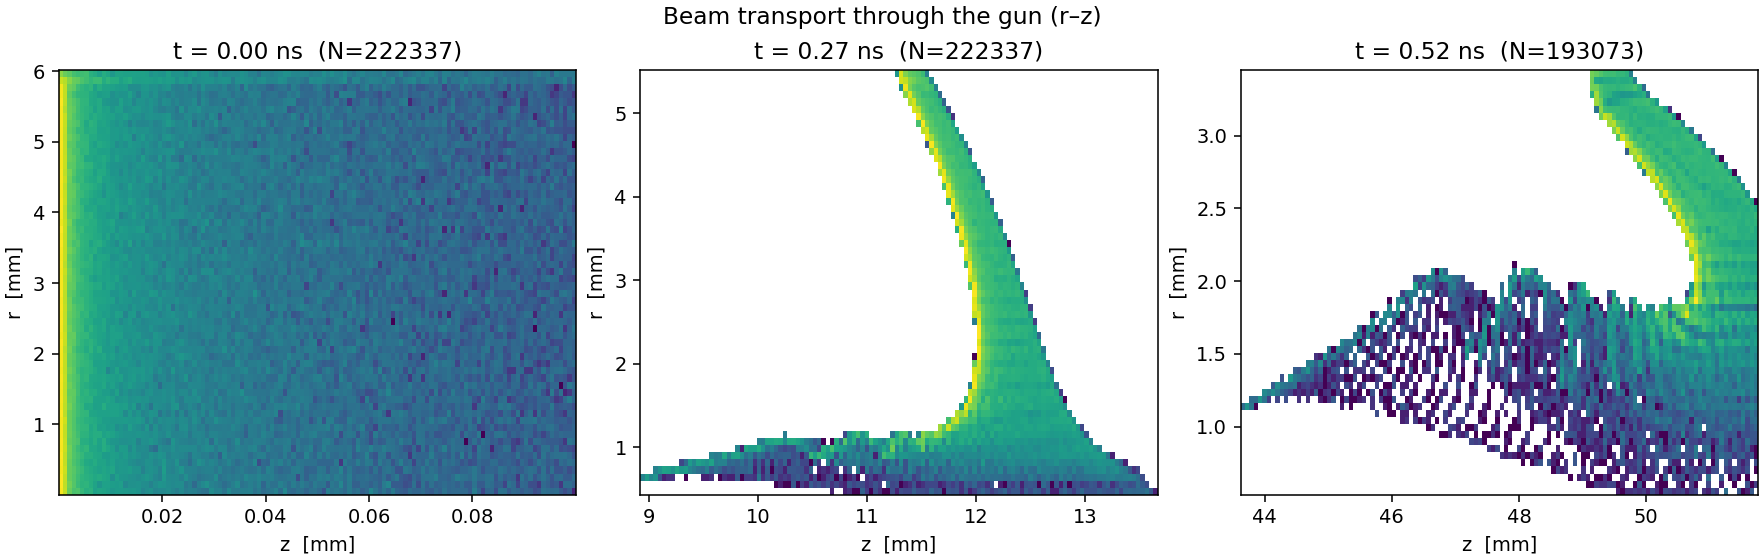
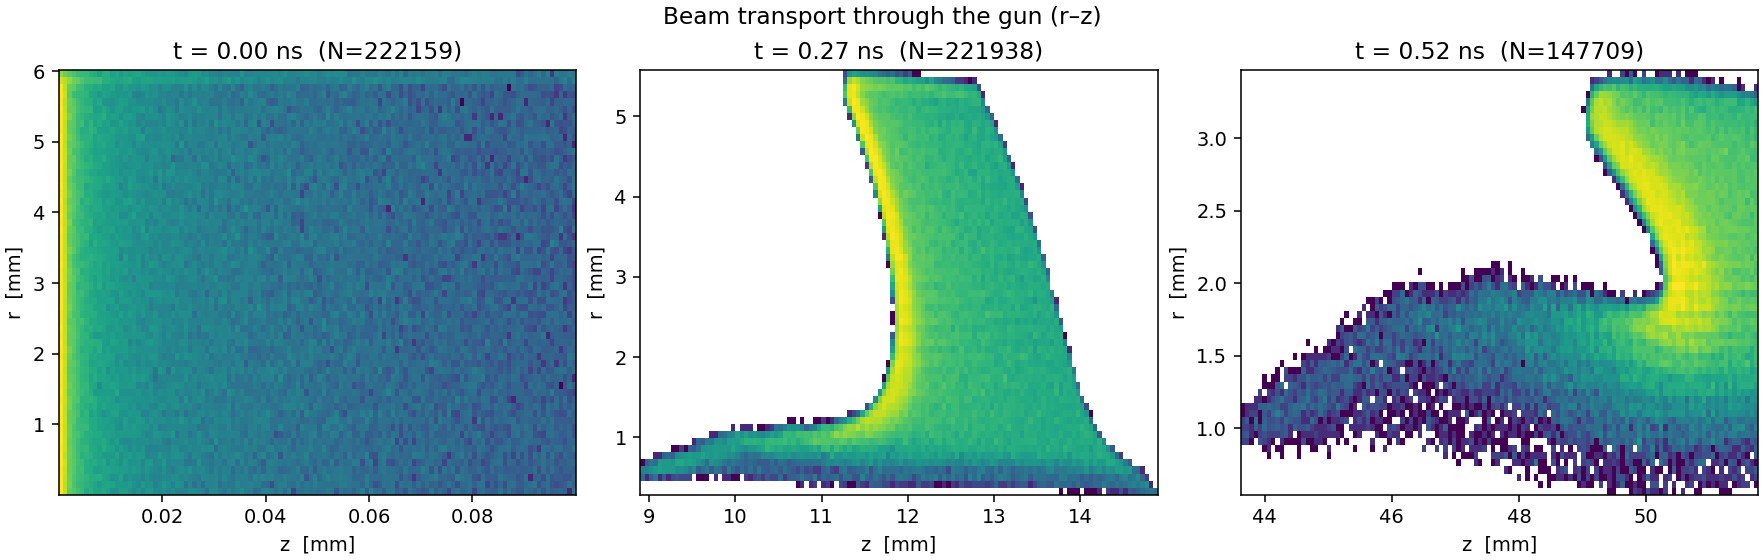
feat(gun): add beam-envelope and beam self-field figures
beam_envelope.png — RMS radial size σ_r and normalized transverse emittance
εn,x vs ⟨z⟩: quantifies the near-cathode focusing that beam_rz.png shows only
qualitatively. With the momentum-import fix the launch emittance is the inherited
cathode value (~1.11 mm·mrad), growing in-gun to ~11 mm·mrad.
space_charge.png — r–z maps of the beam's own charge density ρ and the
space-charge potential well φ (≈ −250 V) at a near-launch snapshot — the dumped
self-field that nothing else plotted. Transport figures regenerated off the
corrected gun run.

diff --git a/warpx_gun/plot_gun.py b/warpx_gun/plot_gun.py
@@ -1,8 +1,9 @@
 """
 Figures for the WarpX RZ CESR-gun simulation (gun_sim.py).
 
-Reads the applied gun field (warpx_gun/gun_field/gun_E.h5) and the openPMD beam
-output under warpx_gun/diags/, and writes four figures to warpx_gun/results/:
+Reads the applied gun field (warpx_gun/gun_field/gun_E.h5), the dumped beam
+self-field (warpx_gun/diags/fields/: phi, rho), and the openPMD beam output
+(warpx_gun/diags/particles/), and writes six figures to warpx_gun/results/:
 
   1. gun_field.png     — on-axis Ez(z) and implied potential of the scaled
                          CESR_gun.gdf map: the accelerating field the beam sees.
@@ -11,6 +12,10 @@ output under warpx_gun/diags/, and writes four figures to warpx_gun/results/:
   3. energy_gain.png   — mean/max kinetic energy of the beam vs. ⟨z⟩, climbing
                          toward the ~150 keV gun voltage.
   4. exit_phase_space.png — longitudinal (z–KE) and the final energy spectrum.
+  5. beam_envelope.png — RMS radial size σ_r and normalized transverse emittance
+                         εn,x vs. ⟨z⟩: the near-cathode focusing, quantified.
+  6. space_charge.png  — r–z maps of the beam self charge density ρ and its
+                         space-charge potential well φ at a near-launch snapshot.
 
 Run with:
     conda run -n CBB python warpx_gun/plot_gun.py
@@ -65,20 +70,33 @@ ts = OpenPMDTimeSeries("warpx_gun/diags/particles")
 iters = ts.iterations
 
 t_ns, zmean, ke_mean, ke_max, n_live = [], [], [], [], []
+sig_r, emit_nx = [], []           # for beam_envelope.png (filled in the same loop)
 for i, it in enumerate(iters):
-    z, ux, uy, uz = ts.get_particle(
-        ["z", "ux", "uy", "uz"], species="electrons", iteration=it)
+    z, x, ux, uy, uz = ts.get_particle(
+        ["z", "x", "ux", "uy", "uz"], species="electrons", iteration=it)
     n_live.append(len(z))
     t_ns.append(ts.t[i] * 1e9)
     if len(z) == 0:
         zmean.append(np.nan); ke_mean.append(np.nan); ke_max.append(np.nan)
+        sig_r.append(np.nan); emit_nx.append(np.nan)
         continue
     ke = (gamma_of(ux, uy, uz) - 1.0) * MC2
     zmean.append(z.mean() * 1e3)
     ke_mean.append(ke.mean()); ke_max.append(ke.max())
+    # ── Envelope diagnostics (one transverse plane; RZ ⇒ x and y are equivalent) ──
+    # RMS radial size: in RZ the cloud is azimuthally symmetric, so the radial RMS
+    # equals σ_x = sqrt(⟨x²⟩) (the per-plane RMS), reported in mm.
+    sig_r.append(np.sqrt(np.mean(x**2)) * 1e3)
+    # Normalized transverse emittance εn,x = sqrt(⟨x²⟩⟨ux²⟩ − ⟨x·ux⟩²): a phase-space
+    # area that is invariant under linear (and acceleration) forces; growth ⇒ nonlinear
+    # space-charge / field aberrations. ux is the normalized momentum γβx, so x[m]·ux
+    # gives [m·rad]; ×1e6 → mm·mrad.
+    e2 = np.mean(x**2) * np.mean(ux**2) - np.mean(x * ux)**2
+    emit_nx.append(np.sqrt(max(e2, 0.0)) * 1e6)
 
 t_ns = np.array(t_ns); zmean = np.array(zmean)
 ke_mean = np.array(ke_mean); ke_max = np.array(ke_max)
+sig_r = np.array(sig_r); emit_nx = np.array(emit_nx)
 print(f"beam: {n_live[0]} launched, {n_live[-1]} at last dump; "
       f"peak ⟨KE⟩ {np.nanmax(ke_mean):.1f} keV, max KE {np.nanmax(ke_max):.1f} keV")
 
@@ -127,3 +145,102 @@ a2.set_xlabel("KE  [keV]"); a2.set_ylabel("count")
 a2.set_title("Energy spectrum at last dump"); a2.legend()
 fig.savefig(f"{RESULTS}/exit_phase_space.png", dpi=140)
 print(f"wrote {RESULTS}/exit_phase_space.png")
+
+# ══════════════════════════════════════════════════════════════════════════════
+# Fig 5: beam_envelope.png — RMS radial size σ_r and emittance εn,x vs ⟨z⟩
+# ──────────────────────────────────────────────────────────────────────────────
+# beam_rz.png shows the near-cathode pinch only qualitatively (three snapshots);
+# this quantifies it. The transverse envelope σ_r(z) contracts as the diverging
+# cathode emission is focused by the radial gun field, while the normalized
+# emittance εn,x tracks whether that focusing is clean (flat) or aberrated
+# (growing). Both are computed in the snapshot loop above; here we just plot them
+# against the mean longitudinal position ⟨z⟩, so the x-axis reads as "down the gun".
+# ══════════════════════════════════════════════════════════════════════════════
+ok = np.isfinite(zmean) & np.isfinite(sig_r)
+fig, ax = plt.subplots(figsize=(7.6, 4.6), constrained_layout=True)
+l1, = ax.plot(zmean[ok], sig_r[ok], "o-", color="C0", ms=3,
+              label=r"RMS size  $\sigma_r=\sqrt{\langle x^2\rangle}$")
+ax.set_xlabel("mean beam position  ⟨z⟩  [mm]")
+ax.set_ylabel(r"RMS radial size  $\sigma_r$  [mm]", color="C0")
+ax.tick_params(axis="y", labelcolor="C0")
+ax.set_title("Transverse envelope and emittance along the gun")
+# Twin axis: normalized transverse emittance (the phase-space area).
+ax2 = ax.twinx()
+l2, = ax2.plot(zmean[ok], emit_nx[ok], "s--", color="C3", ms=3,
+               label=r"norm. emittance  $\varepsilon_{n,x}$")
+ax2.set_ylabel(r"$\varepsilon_{n,x}$  [mm·mrad]", color="C3")
+ax2.tick_params(axis="y", labelcolor="C3")
+ax.legend(handles=[l1, l2], loc="best")
+fig.savefig(f"{RESULTS}/beam_envelope.png", dpi=140)
+print(f"wrote {RESULTS}/beam_envelope.png")
+
+# ══════════════════════════════════════════════════════════════════════════════
+# Fig 6: space_charge.png — the beam SELF-FIELD (dumped ρ and φ) at near launch
+# ──────────────────────────────────────────────────────────────────────────────
+# Nothing else in this file plots warpx_gun/diags/fields. That is the beam's OWN
+# space charge — distinct from the applied gun field in gun_field.png. The README
+# renormalizes the bunch to 0.1 nC precisely because this self-field would
+# otherwise dwarf the gun field; here we make it visible. We pick an early
+# iteration where the dense bunch is still near the cathode (largest self-field),
+# and show two r–z half-plane (r ≥ 0) maps:
+#   • ρ(r,z): the bunch self charge density (electrons ⇒ ρ < 0), and
+#   • φ(r,z): the space-charge potential well it digs in the on-axis potential.
+# We read the openPMD field dump with the raw openpmd_api mode-0 reader (same
+# pattern as the applied-field reader at the top of this file): for RZ thetaMode
+# each scalar loads as (1, nz, nr); [0] drops the mode axis to a half-plane slice.
+# ══════════════════════════════════════════════════════════════════════════════
+# Choose a near-launch field snapshot whose dense bunch has just cleared the
+# cathode wall: the self-field is largest near launch, but the very first dumps
+# pin the cloud against z = 0 where it is a single-cell sliver. We target the
+# field dump whose bunch ⟨z⟩ is closest to ~0.4 mm — a few cells off the wall, so
+# the bunch resolves as a blob while still sitting at the cathode end of the gun.
+fs = io.Series("warpx_gun/diags/fields/openpmd_%06T.h5", io.Access.read_only)
+field_iters = [int(k) for k in fs.iterations]
+particle_iters = list(iters)
+# ⟨z⟩ keyed by iteration (mm), restricted to iterations that also have field dumps.
+zmean_by_it = {int(it): zm for it, zm in zip(particle_iters, zmean)}
+Z_TARGET = 0.4                                  # mm — near-cathode but off the wall
+cand = [it for it in field_iters
+        if it in zmean_by_it and np.isfinite(zmean_by_it[it])
+        and zmean_by_it[it] > 0.0]            # skip the t=0 launch (cloud on the wall)
+it_sc = min(cand, key=lambda it: abs(zmean_by_it[it] - Z_TARGET))
+zmean_sc = zmean_by_it[it_sc]
+
+itr = fs.iterations[it_sc]
+t_sc = itr.time * itr.time_unit_SI * 1e9            # snapshot time [ns]
+rho_m = itr.meshes["rho"]; phi_m = itr.meshes["phi"]
+rho = rho_m[io.Mesh_Record_Component.SCALAR].load_chunk()
+phi = phi_m[io.Mesh_Record_Component.SCALAR].load_chunk()
+fs.flush()
+rho = rho[0]; phi = phi[0]                           # (nz, nr) mode-0 half-plane
+dz_sc, dr_sc = rho_m.grid_spacing                    # axis order ['z','r']
+nz_sc, nr_sc = rho.shape
+# r–z extent in mm, with z on the horizontal axis (matching beam_rz.png).
+extent = [0.0, nz_sc * dz_sc * 1e3, 0.0, nr_sc * dr_sc * 1e3]   # [z0,z1,r0,r1] mm
+# Transpose to (nr, nz) so imshow rows = r (vertical), cols = z (horizontal).
+rho_img = rho.T * 1e6                                 # C/m³ → µC/m³ for readability
+phi_img = phi.T                                       # V
+
+fig, (a1, a2) = plt.subplots(2, 1, figsize=(8.6, 6.4), constrained_layout=True,
+                             sharex=True)
+# ρ: electron self charge density (negative). Symmetric color scale about 0.
+rmax = np.nanmax(np.abs(rho_img)) or 1.0
+im1 = a1.imshow(rho_img, origin="lower", extent=extent, aspect="auto",
+                cmap="RdBu_r", vmin=-rmax, vmax=rmax)
+a1.set_ylabel("r  [mm]")
+a1.set_title(f"Beam self charge density  ρ(r, z)   "
+             f"(t = {t_sc:.3f} ns,  ⟨z⟩ = {zmean_sc:.3f} mm)")
+cb1 = fig.colorbar(im1, ax=a1); cb1.set_label(r"ρ  [µC/m$^3$]")
+# φ: the space-charge potential well the bunch digs (φ < 0 for an electron cloud).
+im2 = a2.imshow(phi_img, origin="lower", extent=extent, aspect="auto",
+                cmap="viridis")
+a2.set_xlabel("z  [mm]"); a2.set_ylabel("r  [mm]")
+a2.set_title("Space-charge potential well  φ(r, z)   (beam self-field only)")
+cb2 = fig.colorbar(im2, ax=a2); cb2.set_label("φ  [V]")
+# Zoom both panels onto the near-cathode region where the bunch actually sits.
+z_zoom = max(5.0, 6.0 * zmean_sc)                    # mm; show a few mm past ⟨z⟩
+a1.set_xlim(0.0, min(z_zoom, extent[1]))
+fig.suptitle("Beam self-field near launch (separate from the applied gun field)",
+             fontsize=12)
+fig.savefig(f"{RESULTS}/space_charge.png", dpi=140)
+print(f"wrote {RESULTS}/space_charge.png")

diff --git a/warpx_gun/README.md b/warpx_gun/README.md
@@ -106,6 +106,12 @@ single-pass gun demo, but note it if pushing to higher voltage.
 3. **`energy_gain.png`** — mean and max kinetic energy vs. ⟨z⟩, climbing toward ~150 keV.
 4. **`exit_phase_space.png`** — longitudinal `z–KE` phase space and the energy spectrum at the
    last dump.
+5. **`beam_envelope.png`** — RMS radial size `σ_r = √⟨x²⟩` and normalized transverse emittance
+   `εn,x` vs. `⟨z⟩`: the near-cathode radial focusing of `beam_rz.png` made quantitative, plus the
+   space-charge / aberration emittance growth along the gun.
+6. **`space_charge.png`** — `r–z` maps of the beam **self-field** (`ρ` and the space-charge
+   potential well `φ`, ≈ −250 V) at a near-launch snapshot — the dumped self-field nothing else
+   plots, and the well that motivates renormalizing the bunch to 0.1 nC.
 
 ## Notes / extensions
 